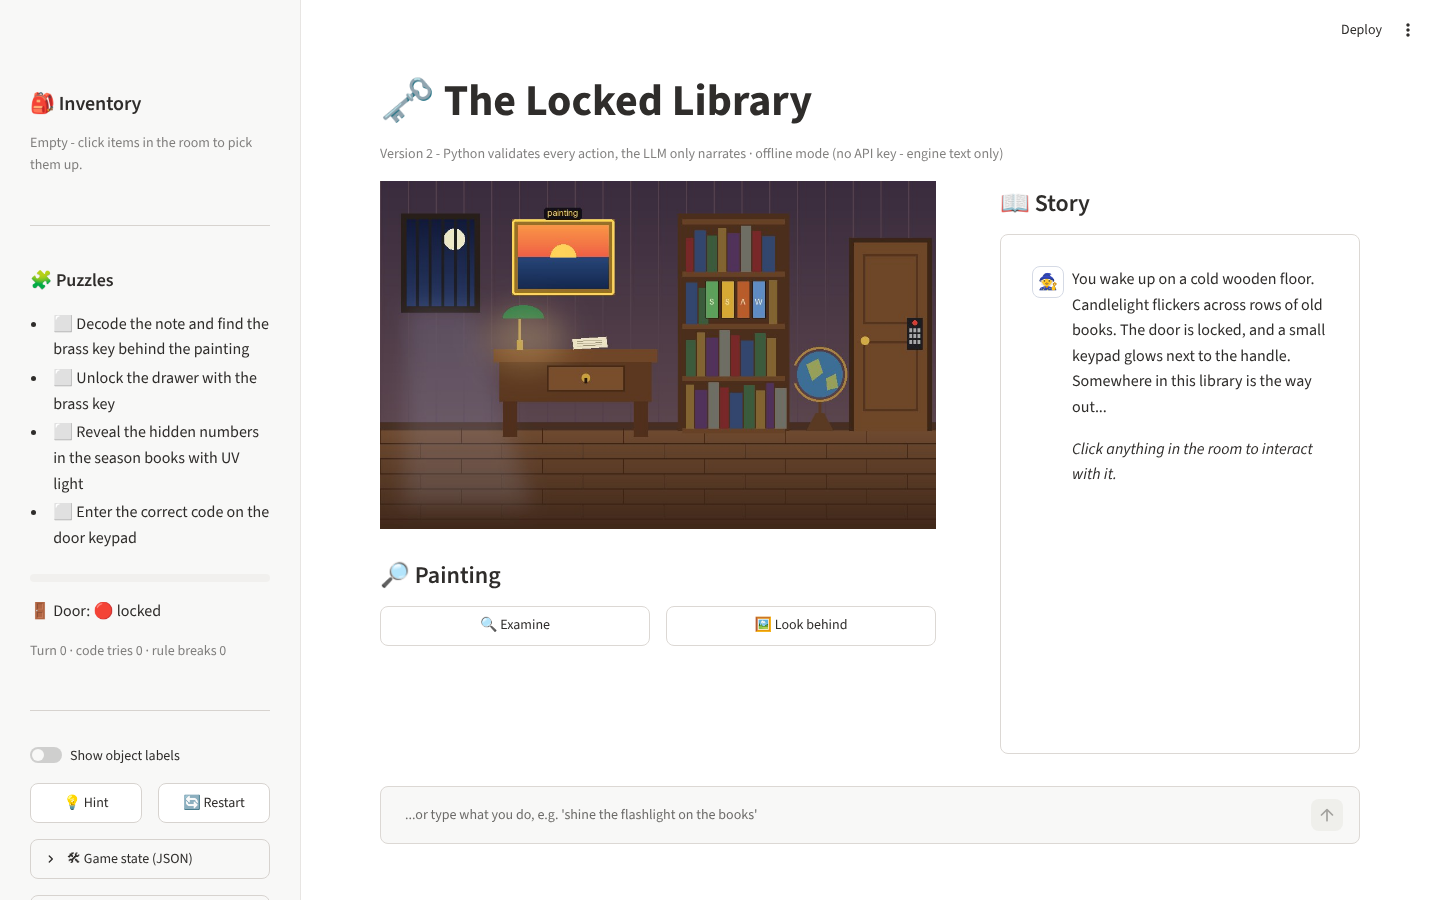
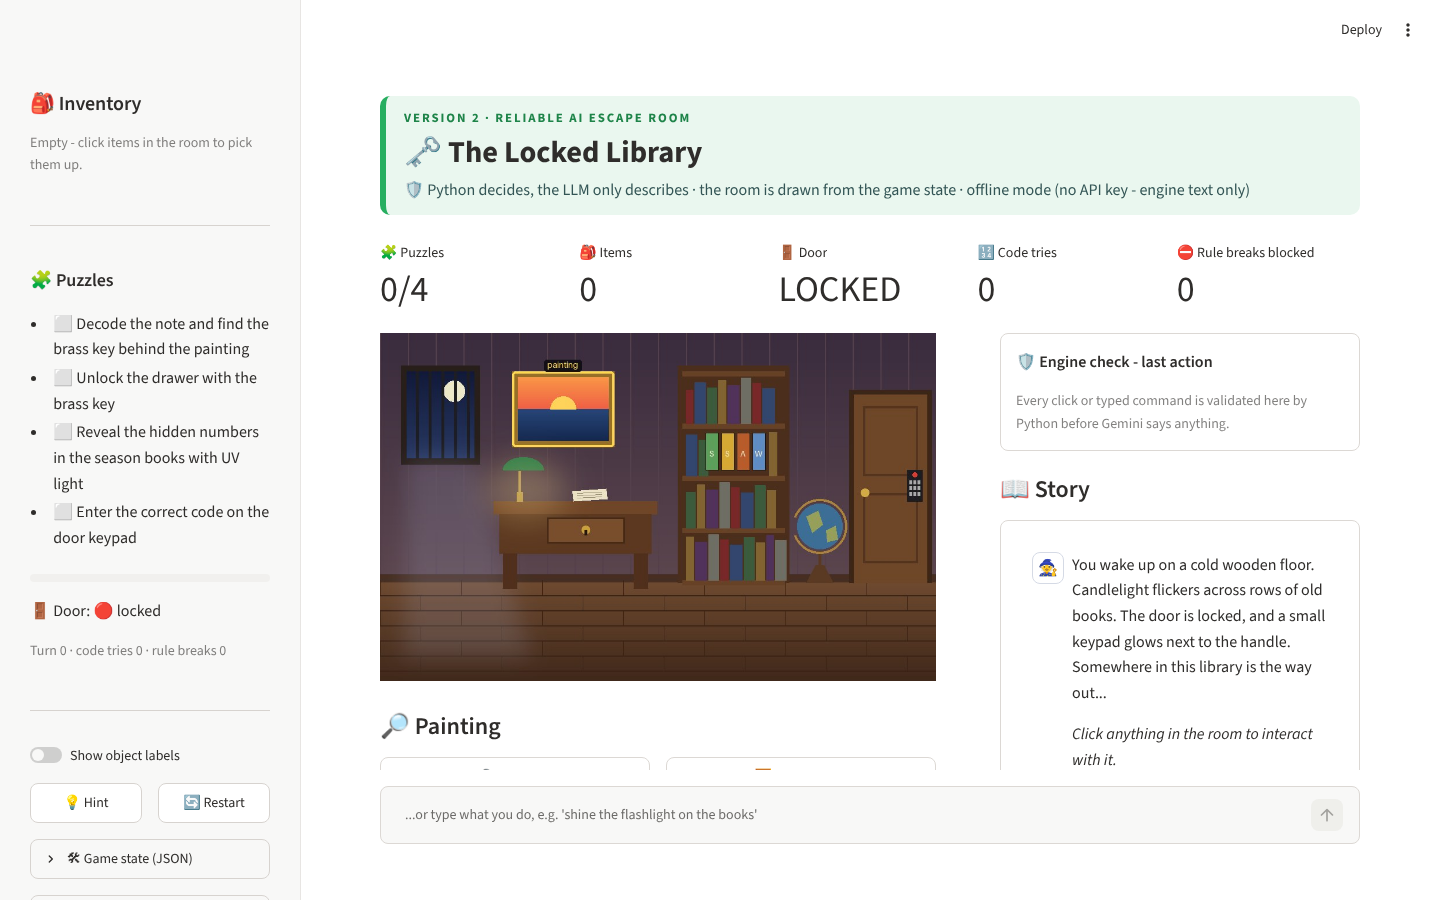
Make V1 and V2 visibly different
V1: orange 'LLM only' banner, chat-first layout, state shown as unknown (?),
static room labelled as static. V2: green 'Reliable' banner, live state
metrics, and an engine-check card showing how Python validated the last
action (verb, arguments, allowed/refused, event, output guard).

Claude-Session: https://claude.ai/code/session_01JHE4nGXCUCeGcZParoQ2jR

Changed region(s): [[0.25, 0.0933, 0.9375, 0.84], [0.7188, 0.6222, 0.9062, 0.7467], [0.75, 0.8089, 0.9062, 0.8711]]

diff --git a/v1/app.py b/v1/app.py
@@ -89,7 +89,11 @@ st.set_page_config(page_title="AI Escape Room - V1", page_icon="🗝", layout
 if "messages" not in st.session_state:
     reset_game()
 
-st.title("🗝 The Locked Library")
+st.html("""<div style="border-left:6px solid #e67e22;background:#fdf2e6;border-radius:10px;padding:12px 18px;
+  margin-bottom:10px"><div style="font-size:.8rem;letter-spacing:.15em;color:#b9550a;font-weight:700">
+  VERSION 1 · INTERACTIVE AI ESCAPE ROOM</div><div style="font-size:1.9rem;font-weight:700">🗝 The Locked Library</div>
+  <div style="color:#553">🤖 The LLM is the whole game: story, rules, solutions and your progress live only in
+  Gemini's prompt and this chat</div></div>""")
 client = get_client()
 
 with st.sidebar:
@@ -114,11 +118,19 @@ if client is None:
 
 from gemini_model import resolve_model  # noqa: E402
 
-st.caption(f"Version 1 - the LLM is the whole game · model `{resolve_model(client)}`")
+st.caption(f"Model `{resolve_model(client)}` · no game engine, no state, no validation")
 
-room_col, story_col = st.columns([1.5, 1], gap="large")
+# V1 has no game state, so there is nothing real to show here - only what the chat says.
+m = st.columns(4)
+m[0].metric("🧩 Puzzles", "?", help="Not tracked - only Gemini 'remembers' (in the chat)")
+m[1].metric("🎒 Items", "?", help="No inventory - Gemini may forget or invent items")
+m[2].metric("🚪 Door", "?", help="Decided only by Gemini's [ESCAPED] tag")
+m[3].metric("💬 Messages sent", sum(mm["role"] == "user" for mm in st.session_state.messages))
+
+story_col, room_col = st.columns([1.25, 1], gap="large")
 
 with room_col:
+    st.markdown("#### 🖼 Room (static)")
     img = rr.render(START_STATE, st.session_state.selected, show_labels, NAMES)
     click = streamlit_image_coordinates(img, key="room", use_column_width="always",
                                         image_format="JPEG", jpeg_quality=88, cursor="pointer")
@@ -129,6 +141,7 @@ with room_col:
         st.session_state.selected = rr.hit_test(x, y, START_STATE)
         st.rerun()
 
+    st.caption("⚠ This picture never changes: V1 keeps no state, so it can't show what Gemini describes.")
     sel = st.session_state.selected
     if st.session_state.escaped:
         st.success("🎉 You escaped the Locked Library! Press *Restart game* to play again.")
@@ -137,8 +150,8 @@ with room_col:
     else:
         st.markdown(f"#### 🔎 {NAMES[sel].capitalize()}")
         commands = COMMANDS.get(sel, [f"Examine the {NAMES[sel]}"])
-        cols = st.columns(len(commands))
-        for col, text in zip(cols, commands):
+        cols = st.columns(1)
+        for col, text in zip(cols * len(commands), commands):
             if col.button(text, key=f"cmd_{sel}_{text}", width="stretch"):
                 with st.spinner("The Game Master is thinking..."):
                     send(text)
@@ -153,8 +166,8 @@ with room_col:
                 st.rerun()
 
 with story_col:
-    st.markdown("#### 📖 Story")
-    with st.container(height=520):
+    st.markdown("#### 💬 Chat with the Game Master")
+    with st.container(height=560):
         for msg in st.session_state.messages:
             with st.chat_message(msg["role"], avatar="🧙" if msg["role"] == "assistant" else "🧑"):
                 st.markdown(msg["content"])

diff --git a/v2/app.py b/v2/app.py
@@ -109,10 +109,20 @@ if "engine" not in st.session_state:
 engine: EscapeRoomEngine = st.session_state.engine
 state = engine.state
 
-st.title("🗝 The Locked Library")
 client = get_client()
 mode = f"Gemini narrator ({resolve_model(client)})" if client else "offline mode (no API key - engine text only)"
-st.caption(f"Version 2 - Python validates every action, the LLM only narrates · {mode}")
+st.html(f"""<div style="border-left:6px solid #27ae60;background:#eaf7ef;border-radius:10px;padding:12px 18px;
+  margin-bottom:10px"><div style="font-size:.8rem;letter-spacing:.15em;color:#1e8449;font-weight:700">
+  VERSION 2 · RELIABLE AI ESCAPE ROOM</div><div style="font-size:1.9rem;font-weight:700">🗝 The Locked Library</div>
+  <div style="color:#355">🛡 Python decides, the LLM only describes · the room is drawn from the game state · {mode}</div></div>""")
+
+# ----- live game state (V1 has none of this) ----------------------------------
+m = st.columns(5)
+m[0].metric("🧩 Puzzles", f"{len(state['solved_puzzles'])}/{len(CONFIG['puzzles'])}")
+m[1].metric("🎒 Items", len(state["inventory"]))
+m[2].metric("🚪 Door", "OPEN" if state["escaped"] else "LOCKED")
+m[3].metric("🔢 Code tries", state["code_attempts"])
+m[4].metric("⛔ Rule breaks blocked", state["rule_violations"])
 
 # ----- sidebar: inventory and progress -------------------------------------
 with st.sidebar:
@@ -200,8 +210,20 @@ with room_col:
             k2.button("🔢 Enter", width="stretch", on_click=enter_code)
 
 with story_col:
+    last = st.session_state.debug[-1] if st.session_state.debug else None
+    with st.container(border=True):
+        st.markdown("**🛡 Engine check - last action**")
+        if last is None:
+            st.caption("Every click or typed command is validated here by Python before Gemini says anything.")
+        else:
+            res, act = last["result"], last["action"]
+            verdict = "✅ allowed" if res["success"] else "❌ refused"
+            args = ", ".join(f"{k}={v}" for k, v in act.items() if v and k != "verb")
+            st.markdown(f"`{act['verb']}({args})` → **{verdict}** · event `{res['event']}`"
+                        + (" · 🧹 narration replaced by output guard" if last.get("guard_triggered") else ""))
+            st.caption(f"Input ({last.get('source', 'typed')}): {last['input']}")
     st.markdown("#### 📖 Story")
-    with st.container(height=520):  # Streamlit keeps this scrolled to the newest message
+    with st.container(height=400):  # Streamlit keeps this scrolled to the newest message
         for msg in st.session_state.messages:
             with st.chat_message(msg["role"], avatar="🧙" if msg["role"] == "assistant" else "🧑"):
                 st.markdown(msg["content"])

diff --git a/README.md b/README.md
@@ -14,6 +14,7 @@ The project was built in the two required versions:
 | Game state | Chat history only | Structured dict (inventory, flags, puzzles, door) |
 | How the player acts | Clicking objects in the room (suggested commands) **or** typing | Clicking objects (context buttons, held items) **or** typing |
 | Room picture | Static: always the starting room (nothing tracks the state) | Drawn from the game state every turn |
+| What the screen shows | Orange "LLM only" banner, chat-first layout, state shown as **?** (puzzles, items, door unknown) | Green "Reliable" banner, live state (puzzles, items, door, code tries, blocked rule breaks) and an **engine check** for every action (`verb(args) → ✅ allowed / ❌ refused`, event, guard) |
 | What the LLM does | Everything | Narrates the outcome the engine already decided |
 | Works without an API key | No | Yes (offline mode, engine text only) |
 
@@ -181,7 +182,7 @@ screenshot used scripted stand-in replies, because V1 cannot run without the LLM
 
 ### Version 1
 
-| Clicked objects send commands to Gemini - but the picture never changes |
+| V1: chat-first, state unknown (?), clicked objects send text to Gemini - the picture never changes |
 |---|
 | ![v1](docs/screenshots/v1_gameplay.png) |
 
